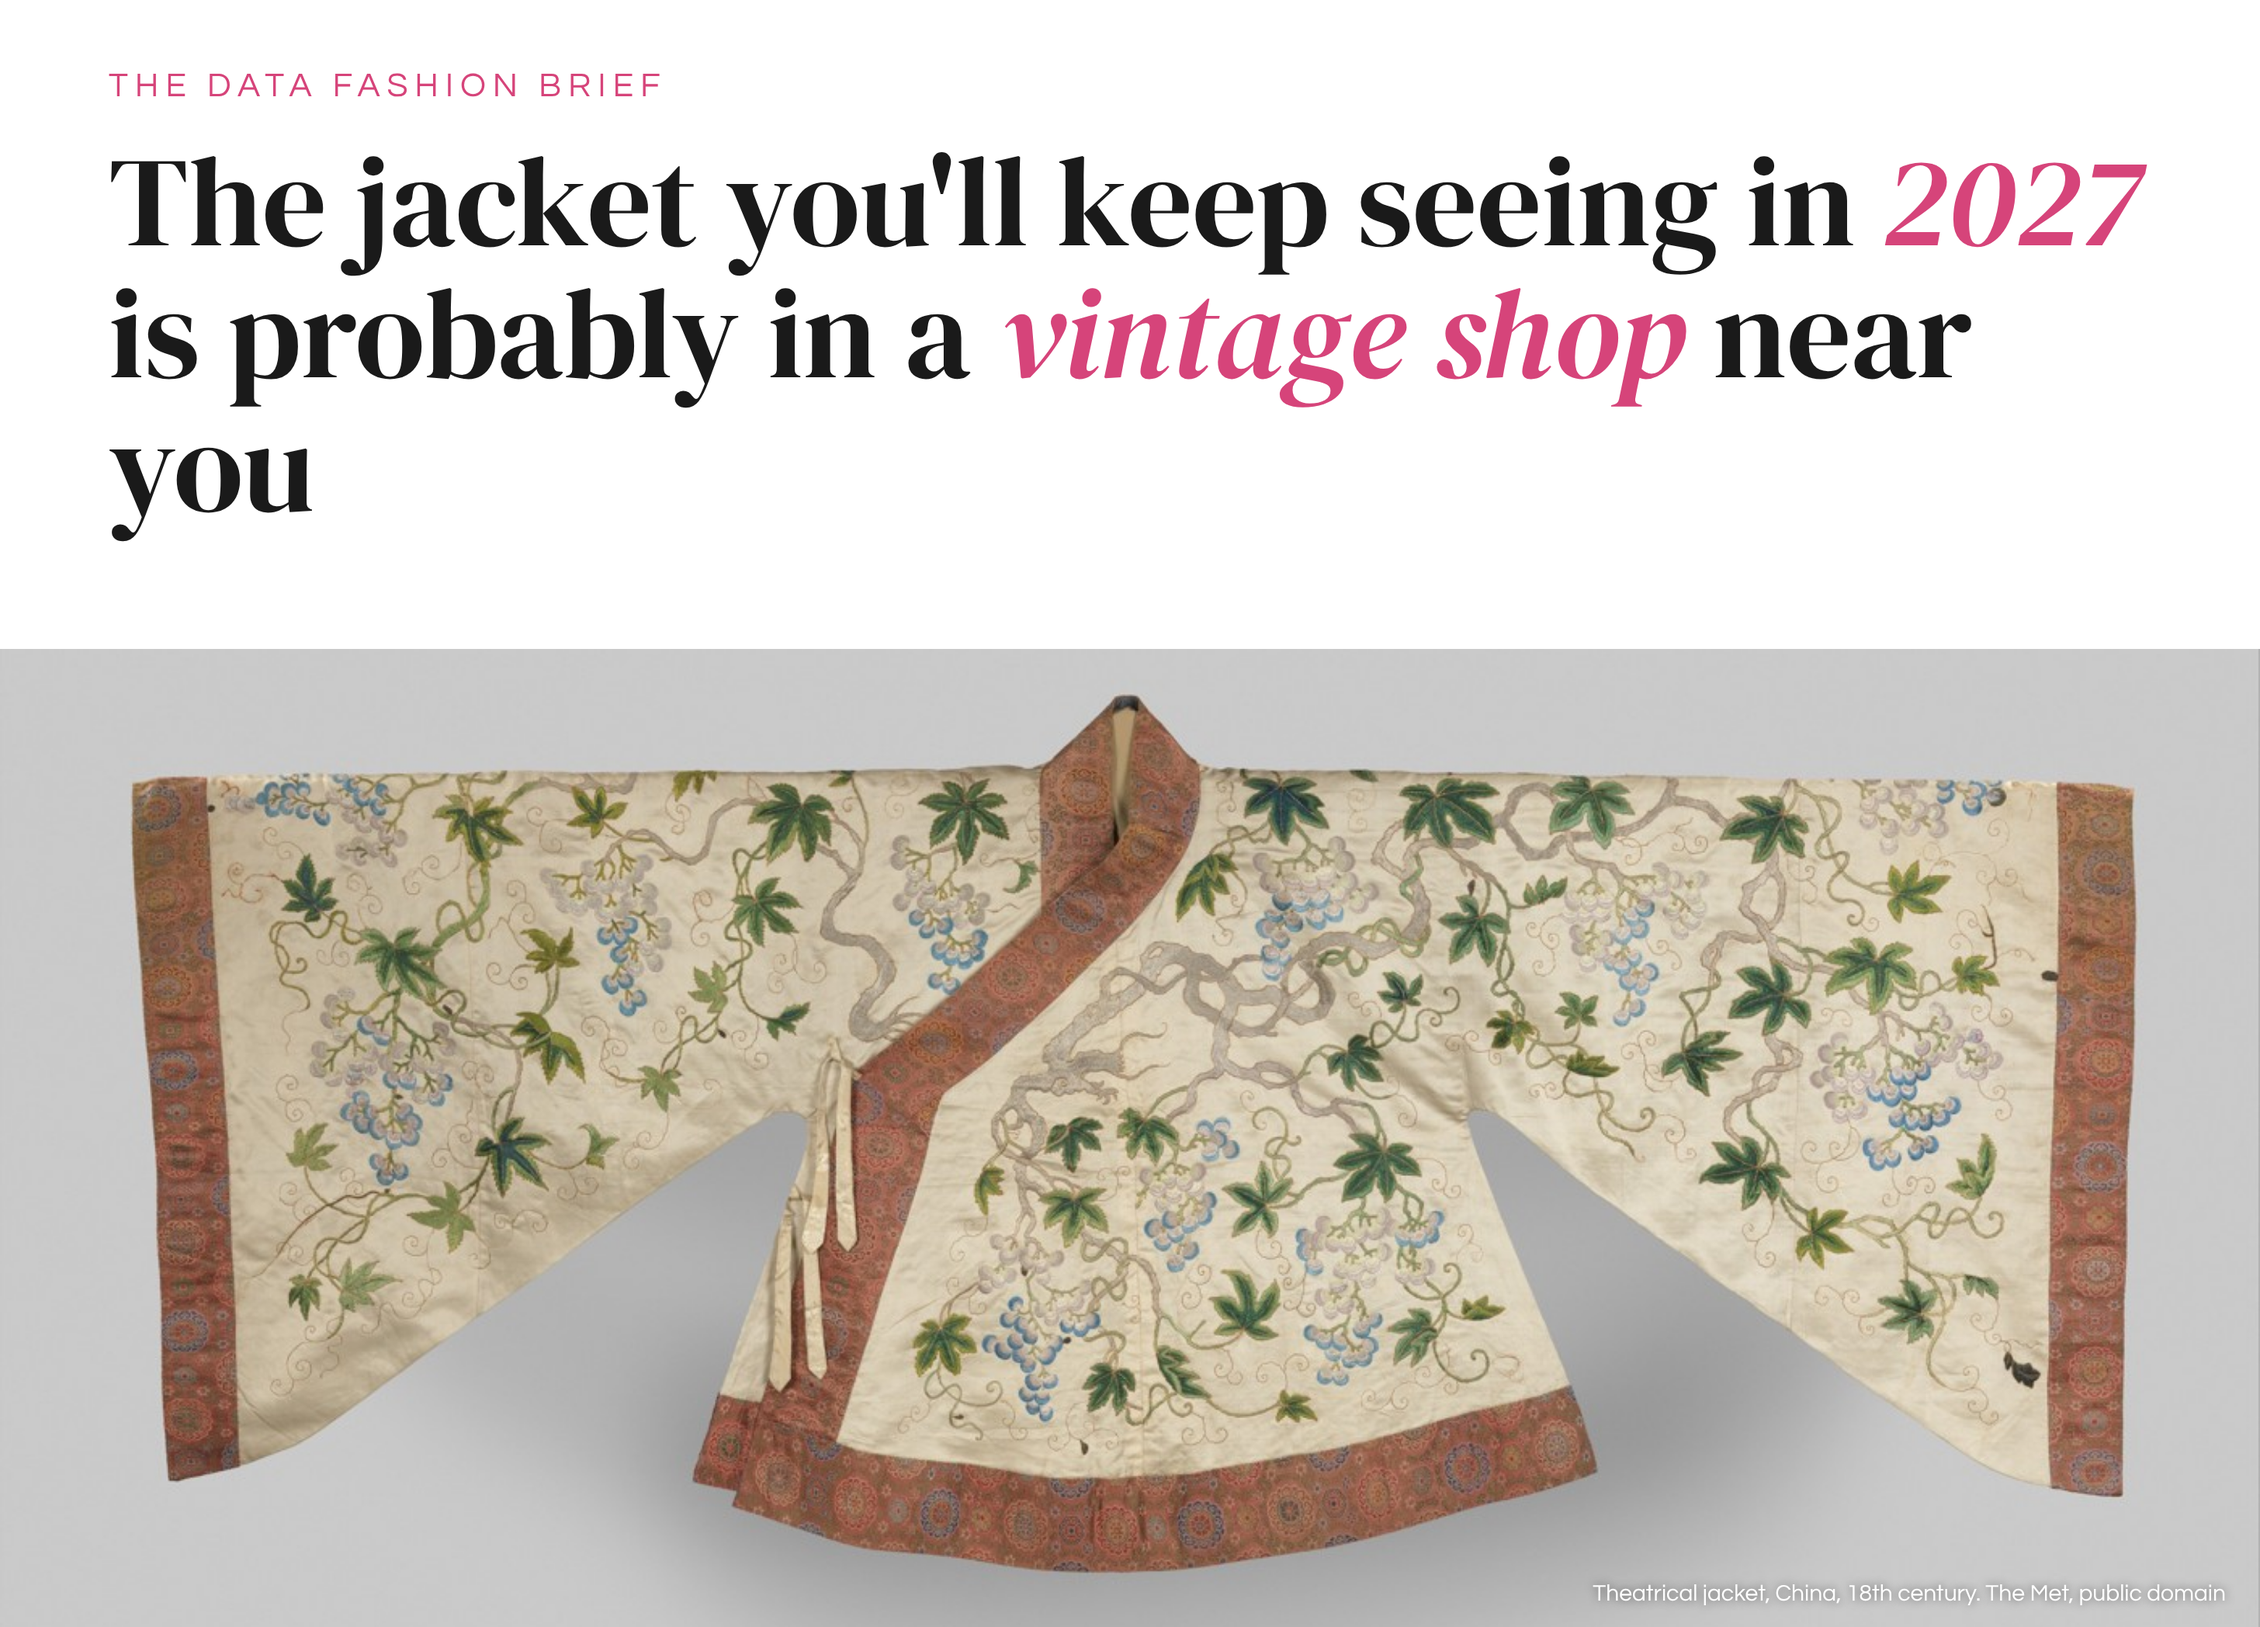
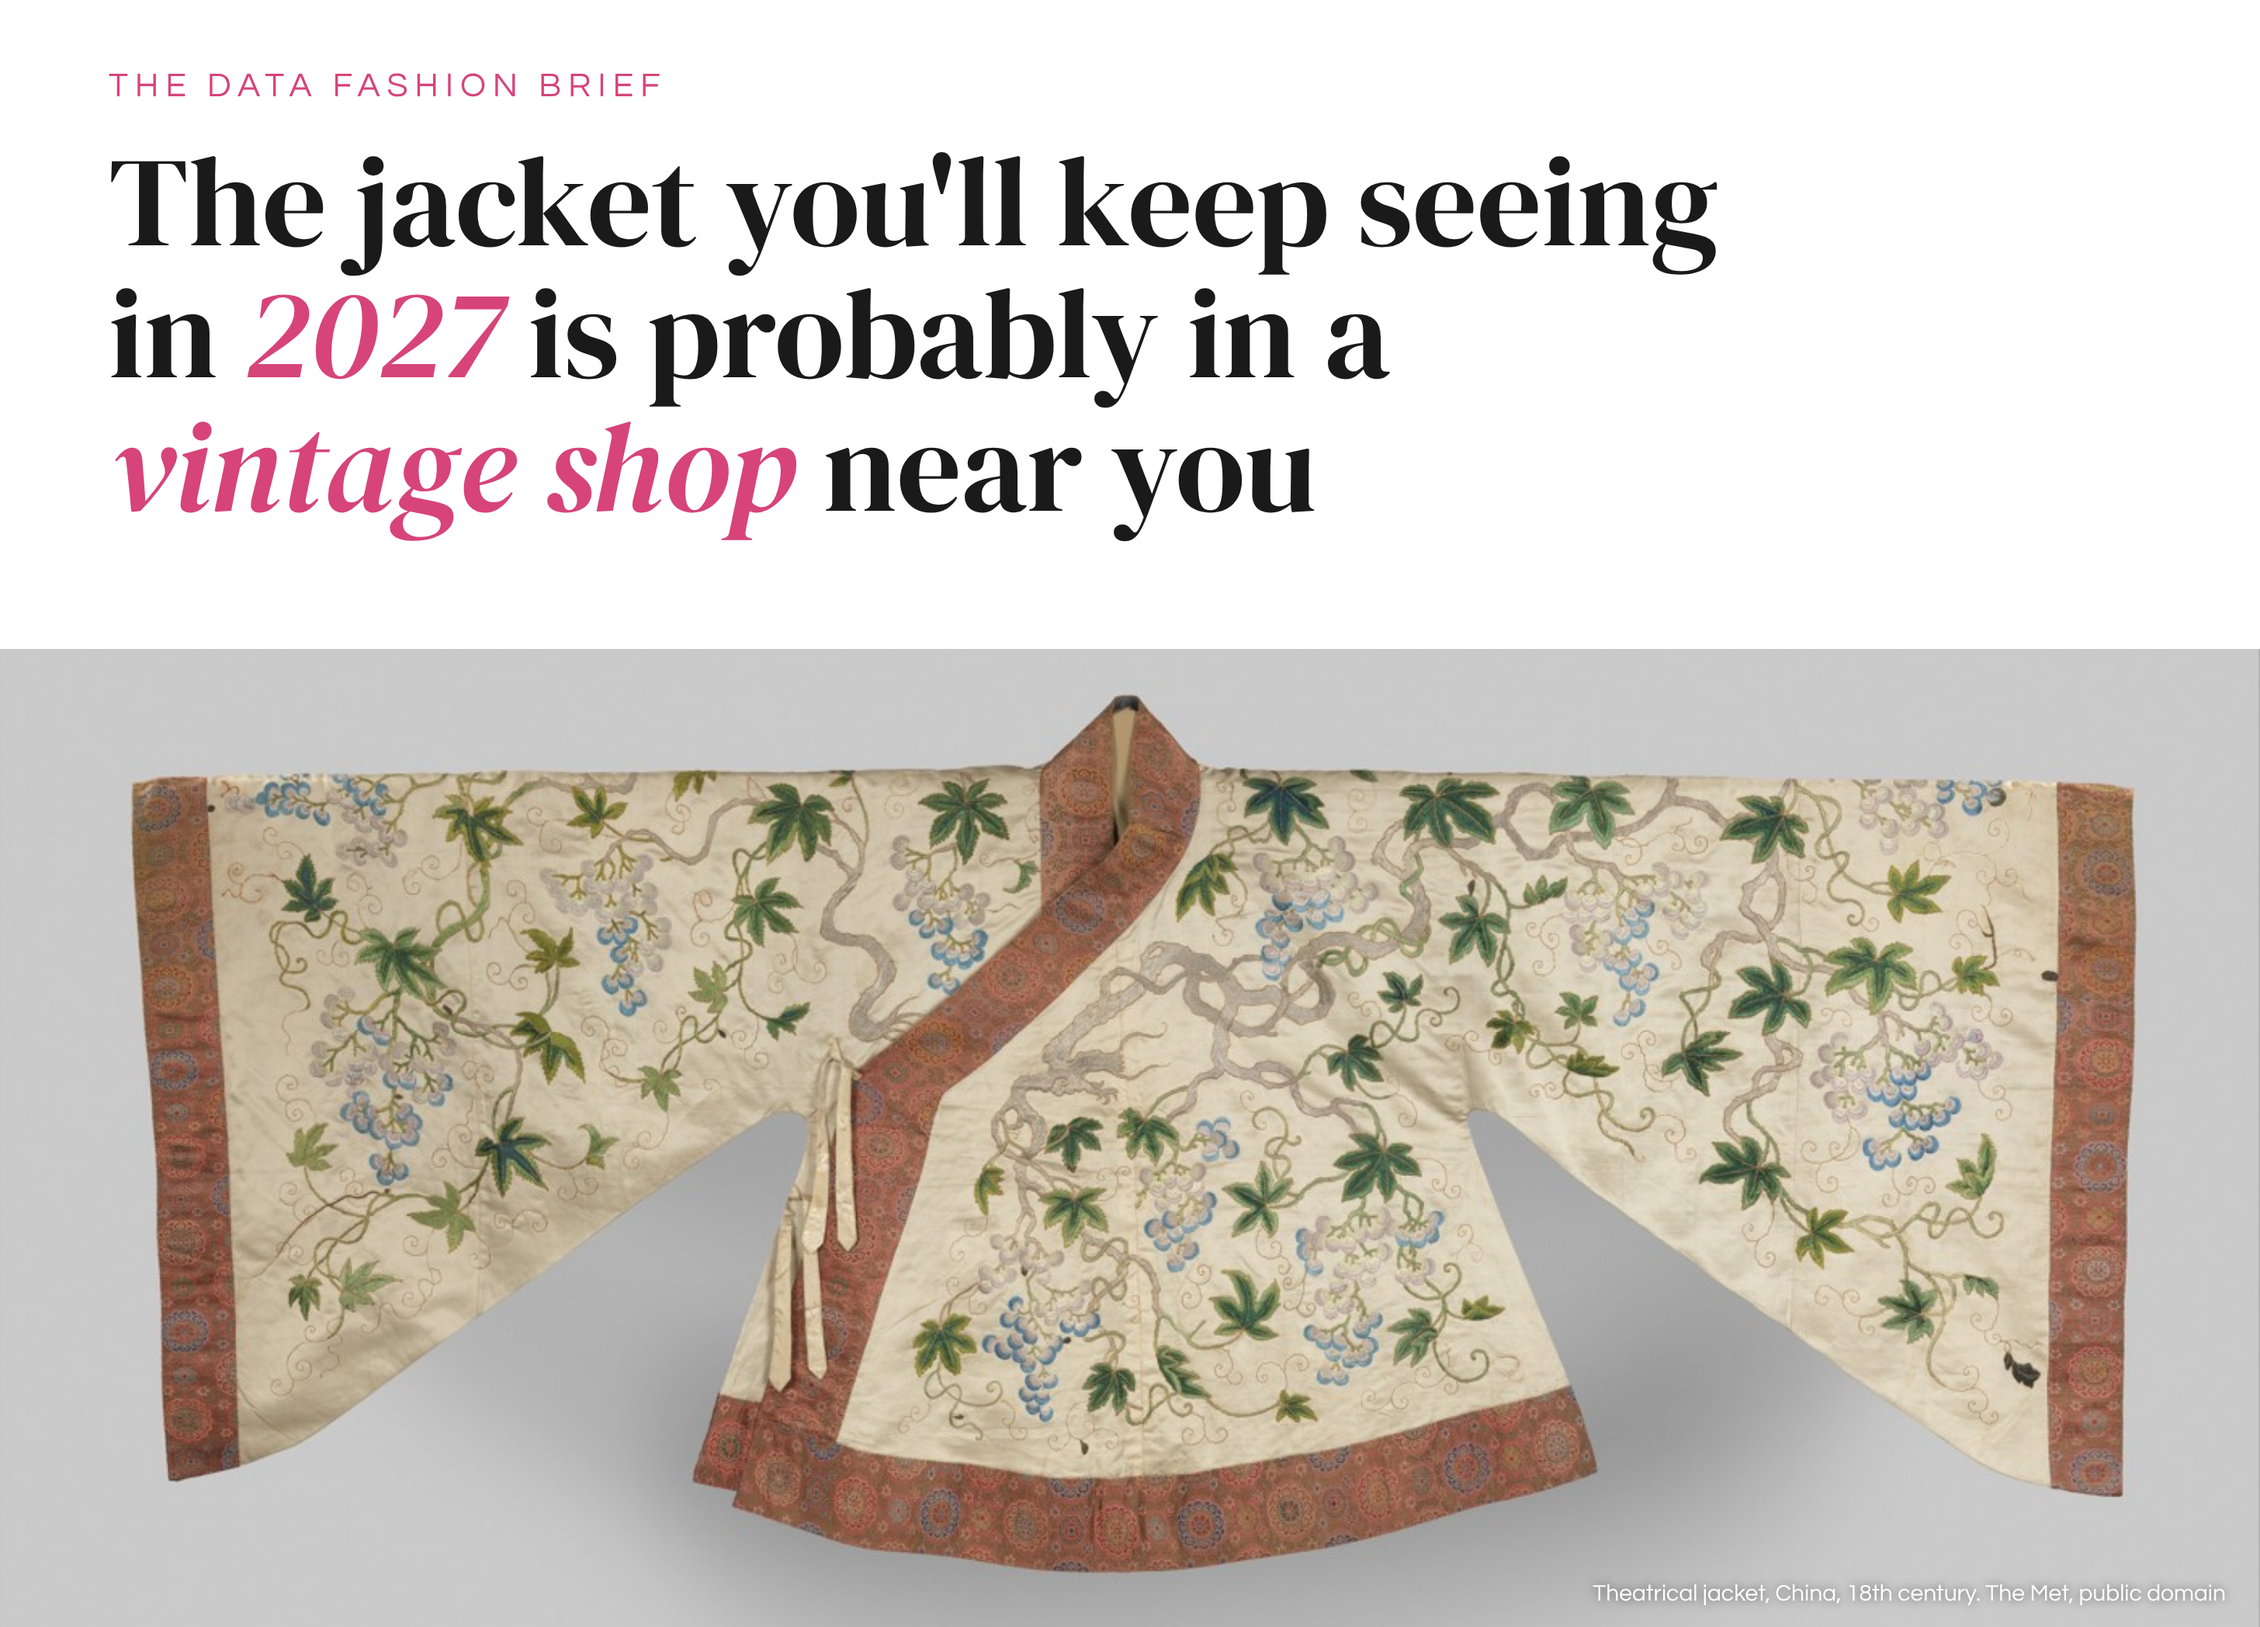
Fix title line breaks on the cover
Claude-Session: https://claude.ai/code/session_01N7aeZbadov81bhy2nkWngq

Changed region(s): [[0.0312, 0.1551, 0.875, 0.3411], [0.75, 0.093, 0.9688, 0.1551]]

diff --git a/drafts/chinese-jacket-charts/build_cover.py b/drafts/chinese-jacket-charts/build_cover.py
@@ -18,7 +18,7 @@ h1 em{{color:#D6447A;font-style:italic}}
 .cap{{position:absolute;right:22px;bottom:14px;font-size:15px;color:#fff;text-shadow:0 0 6px rgba(0,0,0,.55)}}
 </style></head><body><div id="card">
 <div class="txt"><div class="k">The Data Fashion Brief</div>
-<h1>The jacket you'll keep seeing in <em>2027</em> is probably in a <em>vintage shop</em> near you</h1></div>
+<h1>The jacket you'll keep seeing<br>in <em>2027</em> is probably in a<br><em>vintage shop</em> near you</h1></div>
 <div class="im"><img src="file://{HERE}/met/69006.jpg"><div class="cap">Theatrical jacket, China, 18th century. The Met, public domain</div></div>
 </div></body></html>'''
 assert "—" not in page and "–" not in page
